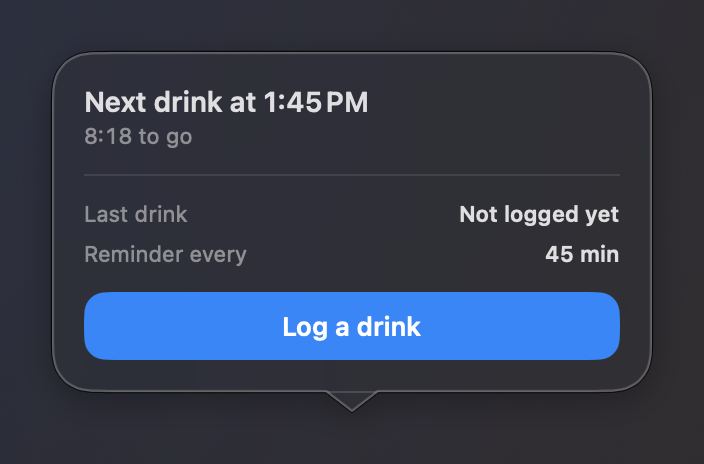
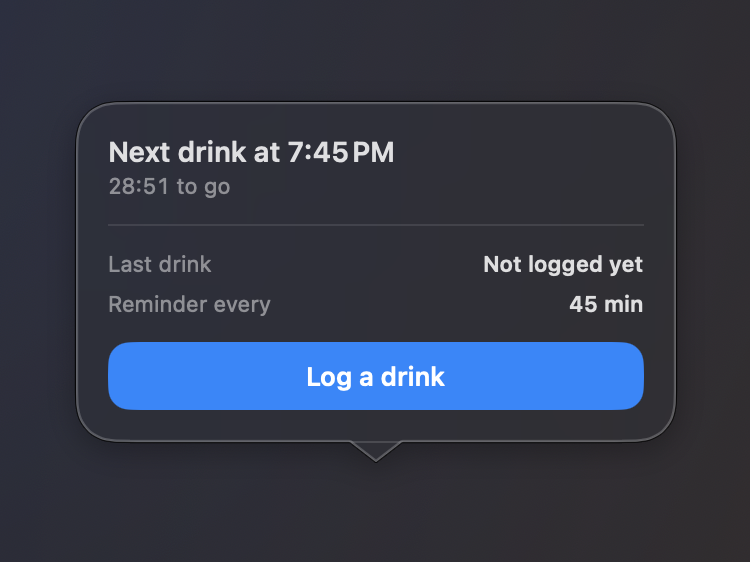
docs: frame every panel screenshot at the same aspect ratio
Panels are their own natural size, so captures made to their own bounds
ranged from 664x334 to 784x780. Images of different shapes cannot line up
in a grid, which left the README reading as ragged rather than as a set.

Each panel is now captured in the smallest 4:3 box that holds it with a
margin, so every image scales to the same shape in a grid while the panel
still fills most of its own frame. A single fixed canvas would also have
given one shape, but sized for the tallest panel it left the short ones
as small islands in a field of backdrop.

Panels open just above the Dock, so a canvas centred on one runs off the
bottom of the screen. Those slide back inside the screen instead of being
trimmed, which would have handed back a shorter image than the rest and
reintroduced the raggedness.

The shelf strips are exempt: they are long and thin, and squaring them off
would be mostly empty space.

Changed region(s): [[0.0625, 0.1509, 0.9375, 0.875], [0.0938, 0.0905, 0.9062, 0.1509]]

diff --git a/Tools/Shots/main.swift b/Tools/Shots/main.swift
@@ -442,6 +442,52 @@ private let settle = Duration.milliseconds(800)
 /// cropped off by the window frame alone. Only ever fills with backdrop.
 private let shadowPadding: CGFloat = 26
 
+/// The shape every panel image is captured in.
+///
+/// Panels are their own natural size: widths follow `WidgetDetail.width` per
+/// kind and heights follow the content, which produced images from 664x334 to
+/// 784x780. A grid of those reads as ragged rather than as a set, because a
+/// row of images with different aspect ratios cannot line up.
+///
+/// What fixes that is a common *ratio*, not a common pixel size. One fixed
+/// canvas big enough for the tallest panel leaves the short ones as small
+/// islands in a field of backdrop, which looks worse than the raggedness it
+/// was meant to fix. So each panel gets the smallest 4:3 box that holds it
+/// with a margin, and every image then scales to the same shape in a grid
+/// while the panel still fills most of its own frame.
+private let panelAspect: CGFloat = 4.0 / 3.0
+
+/// A quarter of the panel's longer side, so the surface has room to sit in
+/// rather than being trimmed to its own edge.
+private let panelMargin: CGFloat = 0.25
+
+private func panelCanvas(for rect: CGRect) -> CGSize {
+    let margin = max(rect.width, rect.height) * panelMargin
+    let wanted = CGSize(width: rect.width + margin, height: rect.height + margin)
+    // Grow whichever side is short of the ratio; never shrink, or the panel
+    // would be cropped by its own frame.
+    return wanted.width / wanted.height < panelAspect
+        ? CGSize(width: wanted.height * panelAspect, height: wanted.height)
+        : CGSize(width: wanted.width, height: wanted.width / panelAspect)
+}
+
+private extension CGRect {
+    /// Slides the rect back inside `bounds` rather than trimming it.
+    ///
+    /// Panels open just above the Dock, so a canvas centred on one runs off
+    /// the bottom of the screen. Cropping there would hand back a shorter
+    /// image than every other panel, which is the raggedness the canvas
+    /// exists to remove; sliding keeps the shape and only moves where the
+    /// panel sits within it. Only a canvas larger than the screen is
+    /// trimmed, and none of them are.
+    func nudgedInside(_ bounds: CGRect) -> CGRect {
+        var r = self
+        r.origin.x = min(max(r.minX, bounds.minX), max(bounds.minX, bounds.maxX - r.width))
+        r.origin.y = min(max(r.minY, bounds.minY), max(bounds.minY, bounds.maxY - r.height))
+        return r.intersection(bounds)
+    }
+}
+
 /// Waits for the metrics buffer to fill, so the history graph covers the full
 /// minute it names rather than the handful of seconds it happened to have.
 @MainActor
@@ -461,9 +507,20 @@ private func waitForHistory(samples wanted: Int, limit: Duration) async {
 /// - Returns: false once the script has closed the pipe, which ends the run.
 @MainActor
 private func capture(_ name: String, _ rect: CGRect, _ source: Source,
-                     on screen: NSScreen) -> Bool {
-    let region = rect.insetBy(dx: -shadowPadding, dy: -shadowPadding)
-        .intersection(screen.frame)
+                     on screen: NSScreen, uniform: Bool = true) -> Bool {
+    let region: CGRect
+    if uniform {
+        // Centred on the surface rather than fitted to it, so every panel
+        // arrives at the same shape and a grid of them lines up.
+        let canvas = panelCanvas(for: rect)
+        region = CGRect(x: rect.midX - canvas.width / 2,
+                        y: rect.midY - canvas.height / 2,
+                        width: canvas.width, height: canvas.height)
+            .nudgedInside(screen.frame)
+    } else {
+        region = rect.insetBy(dx: -shadowPadding, dy: -shadowPadding)
+            .intersection(screen.frame)
+    }
     let flipped = topLeftRect(region)
     emit("\(name) \(Int(flipped.minX)) \(Int(flipped.minY)) \(Int(flipped.width)) \(Int(flipped.height)) \(source.rawValue)")
     // Blocks the main thread until the script says the capture is done. Safe
@@ -533,7 +590,10 @@ private func captureShelf(on screen: NSScreen) async {
     centre(window, size: hosting.fittingSize, on: screen)
     try? await Task.sleep(for: settle)
 
-    _ = capture("shelf-showcase", plateRect(of: window, shelf: shelf), .live, on: screen)
+    // No canvas: the shelf is a long strip, and squaring it off would be
+    // mostly empty space either side of it.
+    _ = capture("shelf-showcase", plateRect(of: window, shelf: shelf), .live,
+                on: screen, uniform: false)
     window.orderOut(nil)
 }
 
